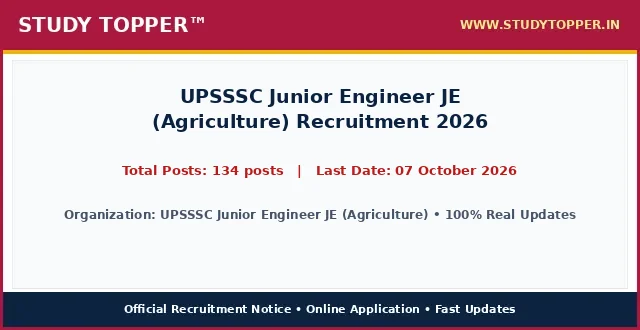
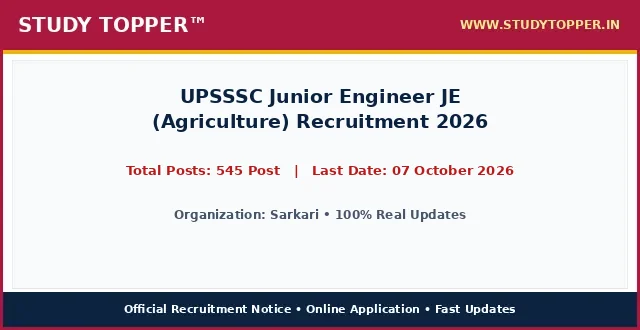
chore(lifecycle): daily auto-sort vacancies and update active dates

Changed region(s): [[0.1875, 0.4848, 0.8125, 0.5455], [0.0938, 0.6364, 0.9062, 0.6667]]

diff --git a/pages/upsssc-junior-engineer-je-agriculture-2026.html b/pages/upsssc-junior-engineer-je-agriculture-2026.html
@@ -987,12 +987,12 @@ ul.wp-block-latest-posts a:hover {
 <main class="site-main" id="main">
 <div class="gb-container gb-container-b39c368c">
 <h1 class="gb-headline gb-headline-e52a0102 gb-headline-text" style="font-size: 22px; font-weight: 700; color: #0000cd; text-align: left; margin: 8px 0 4px 0; line-height: 1.3; width: 100%; font-family: '-apple-system, BlinkMacSystemFont, 'Segoe UI', Roboto, 'Helvetica Neue', Arial, sans-serif', Times, serif, Hind, sans-serif;">UPSSSC Junior Engineer JE (Agriculture) Recruitment 2026</h1>
-<div class="gb-container gb-container-659bd175"><p style="color: #cd0808; font-weight: 700; font-size: 15px; margin: 2px 0 7px 0; text-align: left; font-family: '-apple-system, BlinkMacSystemFont, 'Segoe UI', Roboto, 'Helvetica Neue', Arial, sans-serif', Times, serif, Hind, sans-serif;">Post Date: August 21, 2026 07:48 PM</p></div>
-<p class="gb-headline gb-headline-550ae316 short_Details gb-headline-text" style="width: 100%; max-width: 100%; font-size: 16.8px; line-height: 1.55; color: #000000; text-align: justify; text-justify: inter-word; margin: 8px 0 14px 0; display: block; font-family: '-apple-system, BlinkMacSystemFont, 'Segoe UI', Roboto, 'Helvetica Neue', Arial, sans-serif', Times, serif, Hind, sans-serif;"><strong style="color: #0000cd;">UPSSSC Junior Engineer JE (Agriculture)</strong> has officially published the recruitment notice <strong style="color: #cd0808;">UPSSSC Junior Engineer JE (Agriculture) Recruitment 2026</strong> under notification number Official Advt 2026. Online applications are invited for 134 posts across multiple departments and cadre positions. Interested candidates possessing the requisite educational qualifications and falling between 18 Years to 40 Years can complete their online registration before the application deadline of 07 October 2026. Applicants should read the eligibility criteria, category reservation rules, and exam scheme thoroughly before submitting applications.</p>
+<div class="gb-container gb-container-659bd175"><p style="color: #cd0808; font-weight: 700; font-size: 15px; margin: 2px 0 7px 0; text-align: left; font-family: '-apple-system, BlinkMacSystemFont, 'Segoe UI', Roboto, 'Helvetica Neue', Arial, sans-serif', Times, serif, Hind, sans-serif;">Post Date: August 22, 2026 11:56 AM</p></div>
+<p class="gb-headline gb-headline-550ae316 short_Details gb-headline-text" style="width: 100%; max-width: 100%; font-size: 16.8px; line-height: 1.55; color: #000000; text-align: justify; text-justify: inter-word; margin: 8px 0 14px 0; display: block; font-family: '-apple-system, BlinkMacSystemFont, 'Segoe UI', Roboto, 'Helvetica Neue', Arial, sans-serif', Times, serif, Hind, sans-serif;"><strong style="color: #0000cd;">Sarkari</strong> has officially published the recruitment notice <strong style="color: #cd0808;">UPSSSC Junior Engineer JE (Agriculture) Recruitment 2026</strong> under notification number Official Advt 2026. Online applications are invited for 545 Post across multiple departments and cadre positions. Interested candidates possessing the requisite educational qualifications and falling between 18 Years to 40 Years can complete their online registration before the application deadline of 07 October 2026. Applicants should read the eligibility criteria, category reservation rules, and exam scheme thoroughly before submitting applications.</p>
 <div class="gb-container gb-container-9849916c"><div class="social-buttons-compact" style="display: flex; justify-content: flex-start; align-items: center; gap: 10px; margin: 10px 0 16px 0; width: 100%;"><a class="social-btn-compact wa" href="https://whatsapp.com/channel/0029Va9xyz" rel="noopener" style="background-color: #00d084; color: #ffffff; padding: 10px 18px; border-radius: 4px; text-decoration: none; font-weight: bold; font-size: 15.5px; display: inline-flex; align-items: center; justify-content: center; height: auto;" target="_blank">WhatsApp</a><a class="social-btn-compact tg" href="https://t.me/studytopperofficial" rel="noopener" style="background-color: #0088cc; color: #ffffff; padding: 10px 18px; border-radius: 4px; text-decoration: none; font-weight: bold; font-size: 15.5px; display: inline-flex; align-items: center; justify-content: center; height: auto;" target="_blank">Telegram</a></div></div>
 <div class="gb-container gb-container-f58e6ca1" style="border: 2px solid #5b032f; border-radius: 4px; overflow: hidden; margin: 15px 0 20px 0; background-color: #ffffff; width: 100%; box-sizing: border-box;">
 <h2 class="gb-headline gb-headline-2ca5a791 gb-headline-text" style="font-size: 16px; font-weight: 700; text-align: center; color: #ef0303; line-height: 1.3; padding: 6px 4px; margin: 0; background: #ffffff; font-family: '-apple-system, BlinkMacSystemFont, 'Segoe UI', Roboto, 'Helvetica Neue', Arial, sans-serif', Times, serif, Hind, sans-serif;">UPSSSC Junior Engineer JE (Agriculture) Recruitment 2026 &ndash; Latest Details &amp; Updates</h2>
-<h3 class="gb-headline gb-headline-7d5f86e8 gb-headline-text" style="font-size: 16px; font-weight: 600; text-align: center; color: #009703; line-height: 1.25; margin: 0; padding: 2px 4px 6px 4px; background: #ffffff; font-family: '-apple-system, BlinkMacSystemFont, 'Segoe UI', Roboto, 'Helvetica Neue', Arial, sans-serif', Times, serif, Hind, sans-serif;">UPSSSC Junior Engineer JE (Agriculture) : Details &amp; Summary</h3>
+<h3 class="gb-headline gb-headline-7d5f86e8 gb-headline-text" style="font-size: 16px; font-weight: 600; text-align: center; color: #009703; line-height: 1.25; margin: 0; padding: 2px 4px 6px 4px; background: #ffffff; font-family: '-apple-system, BlinkMacSystemFont, 'Segoe UI', Roboto, 'Helvetica Neue', Arial, sans-serif', Times, serif, Hind, sans-serif;">Sarkari : Details &amp; Summary</h3>
 <p class="gb-headline gb-headline-79adf169 gb-headline-text" style="margin: 0 0 6px 0; font-family: '-apple-system, BlinkMacSystemFont, 'Segoe UI', Roboto, 'Helvetica Neue', Arial, sans-serif', Times, serif, Hind, sans-serif; text-align: center; font-size: 18px; font-weight: 700;"><a href="/" style="color: #0000ff; text-decoration: underline;">StudyTopper.in</a></p>
 
 <style id="st-post-boxes-responsive-css">
@@ -1025,7 +1025,7 @@ ul.wp-block-latest-posts a:hover {
     <div style="background-color: #5b032f; color: #ffffff; padding: 8px 10px; font-size: 20px; font-weight: 700; text-align: center; font-family: '-apple-system, BlinkMacSystemFont, 'Segoe UI', Roboto, 'Helvetica Neue', Arial, sans-serif', Times, serif, Hind, sans-serif;">Important Dates</div>
     <div style="padding: 12px 14px; background-color: #ffffff;">
       <ul style="padding-left: 20px; margin: 0; list-style-type: disc; text-align: left; font-size: 14pt; line-height: 1.6; font-family: '-apple-system, BlinkMacSystemFont, 'Segoe UI', Roboto, 'Helvetica Neue', Arial, sans-serif', Times, serif, Hind, sans-serif;">
-        <li><span style="font-size: 14pt;">Online Apply Start Date : <strong>17 September 2026</strong></span></li><li><span style="font-size: 14pt;">Online Apply Last Date : <span style="color: #ff0000;"><strong>07 October 2026</strong></span></span></li><li><span style="font-size: 14pt;">Fee Payment Last Date : <span style="color: #ff0000;"><strong>07 October 2026</strong></span></span></li><li><span style="font-size: 14pt;">Correction Last Date : <span style="color: #ff0000;"><strong>14 October 2026</strong></span></span></li><li><span style="font-size: 14pt;">Exam Date : <strong>Notify Later</strong></span></li><li><span style="font-size: 14pt;">Admit Card Available : <strong>Before Exam</strong></span></li>
+        
       </ul>
     </div>
   </div>
@@ -1034,7 +1034,7 @@ ul.wp-block-latest-posts a:hover {
     <div style="background-color: #5b032f; color: #ffffff; padding: 8px 10px; font-size: 20px; font-weight: 700; text-align: center; font-family: '-apple-system, BlinkMacSystemFont, 'Segoe UI', Roboto, 'Helvetica Neue', Arial, sans-serif', Times, serif, Hind, sans-serif;">Application Fee</div>
     <div style="padding: 12px 14px; background-color: #ffffff;">
       <ul style="padding-left: 20px; margin: 0; list-style-type: disc; text-align: left; font-size: 14pt; line-height: 1.6; font-family: '-apple-system, BlinkMacSystemFont, 'Segoe UI', Roboto, 'Helvetica Neue', Arial, sans-serif', Times, serif, Hind, sans-serif;">
-        <li><span style="font-size: 14pt;">General, OBC, EWS : <strong>₹ 25/-</strong></span></li><li><span style="font-size: 14pt;">SC, ST : <strong>₹ 25/-</strong></span></li><li><span style="font-size: 14pt;">PH Candidates : <strong>₹ 25/-</strong></span></li><li><span style="font-size: 14pt;">Payment Mode (Online) : <strong>You can make the payment using the following methods: Debit Card Credit Card Internet Banking IMPS Cash Card / Mobile Wallet</strong></span></li><li><span style="font-size: 14pt;">Candidates must have UPSSSC PET 2025 Qualified + High School (10th) or equivalent from a recognized board + 3 : <strong>Year Diploma in Agricultural Engineering from UP Board of Technical Education or an equivalent AICTE-approved qualification.</strong></span></li>
+        <li><span style="font-size: 14pt;">Bihar Police BPSSC Sub Inspector SI Prohibition Result 2026 Advt. No. : <strong>03/2026</strong></span></li><li><span style="font-size: 14pt;">UP Scholarship Online Form 2026 : <strong>2027</strong></span></li>
       </ul>
       <div style="margin-top: 10px; font-size: 14pt; line-height: 1.5; color: #000000; border-top: 1px dashed #ccc; padding-top: 8px; font-family: '-apple-system, BlinkMacSystemFont, 'Segoe UI', Roboto, 'Helvetica Neue', Arial, sans-serif', Times, serif, Hind, sans-serif;">
         <strong>Mode of Payment / Access:</strong> Online via Net Banking, Debit Card, Credit Card, UPI or Free Candidate Portal.
@@ -1047,10 +1047,10 @@ ul.wp-block-latest-posts a:hover {
 <div class="st-grid-row" style="display: flex; flex-wrap: wrap; width: 100%; border-top: 2px solid #5b032f; margin: 0; padding: 0; box-sizing: border-box;">
   <!-- Left Col: Age Limits -->
   <div class="st-col-half st-col-border-right" style="box-sizing: border-box; vertical-align: top;">
-    <div style="background-color: #046132; color: #ffffff; padding: 8px 10px; font-size: 17px; font-weight: 700; text-align: center; font-family: '-apple-system, BlinkMacSystemFont, 'Segoe UI', Roboto, 'Helvetica Neue', Arial, sans-serif', Times, serif, Hind, sans-serif;">UPSSSC Junior Engineer JE (Agriculture) : Age Limits As On 01 August 2026</div>
+    <div style="background-color: #046132; color: #ffffff; padding: 8px 10px; font-size: 17px; font-weight: 700; text-align: center; font-family: '-apple-system, BlinkMacSystemFont, 'Segoe UI', Roboto, 'Helvetica Neue', Arial, sans-serif', Times, serif, Hind, sans-serif;">Sarkari : Age Limits As On 01 August 2026</div>
     <div style="padding: 12px 14px; background-color: #ffffff;">
       <ul style="padding-left: 20px; margin: 0; list-style-type: disc; text-align: left; font-size: 14pt; line-height: 1.6; font-family: '-apple-system, BlinkMacSystemFont, 'Segoe UI', Roboto, 'Helvetica Neue', Arial, sans-serif', Times, serif, Hind, sans-serif;">
-        <li><span style="font-size: 14pt;">For Minimum Age : <strong>18 Years</strong></span></li><li><span style="font-size: 14pt;">For Maximum Age : <strong>40 Years</strong></span></li>
+        
       </ul>
     </div>
   </div>
@@ -1058,7 +1058,7 @@ ul.wp-block-latest-posts a:hover {
   <div class="st-col-half" style="box-sizing: border-box; vertical-align: top;">
     <div style="background-color: #f53c00; color: #ffffff; padding: 8px 10px; font-size: 20px; font-weight: 700; text-align: center; font-family: '-apple-system, BlinkMacSystemFont, 'Segoe UI', Roboto, 'Helvetica Neue', Arial, sans-serif', Times, serif, Hind, sans-serif;">Total Post</div>
     <div style="padding: 24px 10px; background-color: #ffffff; text-align: center;">
-      <span style="font-size: 28px; font-weight: 800; color: #000000; font-family: '-apple-system, BlinkMacSystemFont, 'Segoe UI', Roboto, 'Helvetica Neue', Arial, sans-serif', Times, serif, Hind, sans-serif;">134 posts</span>
+      <span style="font-size: 28px; font-weight: 800; color: #000000; font-family: '-apple-system, BlinkMacSystemFont, 'Segoe UI', Roboto, 'Helvetica Neue', Arial, sans-serif', Times, serif, Hind, sans-serif;">545 Post</span>
     </div>
   </div>
 </div>
@@ -1070,19 +1070,7 @@ ul.wp-block-latest-posts a:hover {
 <div class="gb-container gb-container-ec1f6e4c">
 <h2 class="gb-headline gb-headline-c7683bda gb-headline-text" style="font-size: 24px; font-weight: 800; text-align: center; color: #ef0303; line-height: 1.35; margin: 20px 0 12px 0; padding: 6px 4px; font-family: '-apple-system, BlinkMacSystemFont, 'Segoe UI', Roboto, 'Helvetica Neue', Arial, sans-serif', Times, serif, Hind, sans-serif;">UPSSSC Junior Engineer JE (Agriculture) Recruitment 2026 : Key Overview &amp; Matrix</h2>
 <div class="gb-headline gb-headline-60ccea19 gb-headline-text">
-<table style="border-collapse: collapse; width: 100%; height: 150px;">
-<tbody>
-<tr style="height: 25px;">
-<td colspan="2" style="width: 50%; text-align: center; height: 25px;"><span style="background-color: #000080; color: #ffffff; font-size: 14pt;"><strong> UPSSSC Junior Engineer JE (Agriculture) : Category Wise Vacancy Details </strong></span></td>
-</tr>
-<tr style="height: 25px;">
-<td style="width: 50%; height: 25px; text-align: center;"><span style="font-size: 14pt;"><strong>Category / Particulars</strong></span></td>
-<td style="width: 50%; height: 25px; text-align: center;"><span style="font-size: 14pt;"><strong>Count / Status</strong></span></td>
-</tr>
-<tr><td style="text-align: center;">General</td><td style="text-align: center; font-weight: normal; color: inherit;">54</td></tr><tr><td style="text-align: center;">EWS</td><td style="text-align: center; font-weight: normal; color: inherit;">13</td></tr><tr><td style="text-align: center;">OBC</td><td style="text-align: center; font-weight: normal; color: inherit;">43</td></tr><tr><td style="text-align: center;">SC</td><td style="text-align: center; font-weight: normal; color: inherit;">23</td></tr><tr><td style="text-align: center;">ST</td><td style="text-align: center; font-weight: normal; color: inherit;">01</td></tr>
-</tbody>
-</table>
-<p>&nbsp;</p>
+
 <table style="border-collapse: collapse; width: 100%;">
 <tbody>
 <tr>
@@ -1091,12 +1079,13 @@ ul.wp-block-latest-posts a:hover {
 <th style="background-color: #f53c00; color: #ffffff; padding: 6px 10px; text-align: center; border: 1px solid #d35400; font-size: 15px; font-weight: 700; font-family: '-apple-system, BlinkMacSystemFont, 'Segoe UI', Roboto, 'Helvetica Neue', Arial, sans-serif', Times, serif, Hind, sans-serif;">Eligibility Criteria</th>
 </tr>
 <tr>
-<td style="padding: 8px; border: 1px solid #ddd; font-weight: bold;">UPSSSC Junior Engineer JE (Agriculture) Recruitment 2026</td>
-<td style="padding: 8px; border: 1px solid #ddd; text-align: center; font-weight: bold;">134 posts</td>
-<td style="padding: 8px; border: 1px solid #ddd;">Passed 10th / 12th / Diploma / Bachelor Degree in relevant discipline from any recognized Board or University in India as per official notification.</td>
+<td style="padding: 8px; border: 1px solid #ddd; font-weight: bold;">Sarkari Recruitment</td>
+<td style="padding: 8px; border: 1px solid #ddd; text-align: center; font-weight: bold;">545 Post</td>
+<td style="padding: 8px; border: 1px solid #ddd;">Please refer to the official notification linked below for detailed educational qualifications.</td>
 </tr>
 </tbody>
 </table>
+<p>&nbsp;</p>
 <p>&nbsp;</p>
 
 
@@ -1104,10 +1093,10 @@ ul.wp-block-latest-posts a:hover {
 <table style="border-collapse: collapse; width: 100%;">
 <tbody>
 <tr>
-<td style="width: 100%; text-align: center;"><span style="background-color: #000080; color: #ffffff; font-size: 14pt; font-weight: bold; display: block; padding: 6px;"> How to Fill UPSSSC Junior Engineer JE (Agriculture) Online Application Form </span></td>
+<td style="width: 100%; text-align: center;"><span style="background-color: #000080; color: #ffffff; font-size: 14pt; font-weight: bold; display: block; padding: 6px;"> How to Fill Sarkari Online Application Form </span></td>
 </tr>
 <tr>
-<td style="width: 100%;"><ol style="margin:0; padding-left:18px; text-align: left !important; list-style-position: outside !important"><li style="margin-bottom:6px; text-align: left !important;">Visit official portal for UPSSSC Junior Engineer JE (Agriculture) Recruitment 2026 via direct application link in important links section below.</li><li style="margin-bottom:6px; text-align: left !important;">Read official recruitment notification carefully to verify category eligibility criteria and age limits.</li><li style="margin-bottom:6px; text-align: left !important;">Complete online candidate registration with valid mobile number and email ID.</li><li style="margin-bottom:6px; text-align: left !important;">Fill educational qualifications, identity details, and permanent address accurately.</li><li style="margin-bottom:6px; text-align: left !important;">Upload scanned photograph and signature in required dimensions.</li><li style="margin-bottom:6px; text-align: left !important;">Resize candidate photograph and signature accurately using StudyTopper Tools resizer at indtool.in.</li><li style="margin-bottom:6px; text-align: left !important;">Pay applicable category application fee online using Debit Card, Credit Card, Net Banking, or UPI.</li><li style="margin-bottom:6px; text-align: left !important;">Review full application form preview thoroughly and submit before 07 October 2026.</li><li style="margin-bottom:6px; text-align: left !important;">Download and print submitted application confirmation page for future reference.</li></ol></td>
+<td style="width: 100%;"><ol style="margin:0; padding-left:18px; text-align: left !important; list-style-position: outside !important"><li style="margin-bottom:6px; text-align: left !important;">Read the official recruitment notification carefully before applying.</li><li style="margin-bottom:6px; text-align: left !important;">Keep all basic documents ready: ID Proof, Address Details, Basic Details.</li><li style="margin-bottom:6px; text-align: left !important;">Ready your scanned documents like Photo, Signature, ID Proof, etc.</li><li style="margin-bottom:6px; text-align: left !important;">Click on the 'Apply Online' link given in the Important Links section below.</li><li style="margin-bottom:6px; text-align: left !important;">Fill out all the columns in the application form accurately.</li><li style="margin-bottom:6px; text-align: left !important;">Pay the required application fee if applicable.</li><li style="margin-bottom:6px; text-align: left !important;">Take a printout of the final submitted application form.</li><li style="margin-bottom:6px; text-align: left !important;">Resize candidate photograph and signature accurately using the <a href="https://indtool.in" rel="noopener" target="_blank"><strong>StudyTopper Tools</strong></a> image resizer at indtool.in.</li></ol></td>
 </tr>
 </tbody>
 </table>
@@ -1115,12 +1104,12 @@ ul.wp-block-latest-posts a:hover {
 <table style="border-collapse: collapse; width: 100%;">
 <tbody>
 <tr>
-<td style="width: 100%; text-align: center;"><span style="background-color: #000080; color: #ffffff; font-size: 14pt;"><strong><span style="color: #ffffff;"> UPSSSC Junior Engineer JE (Agriculture) Recruitment 2026 : Mode Of Selection </span></strong></span></td>
+<td style="width: 100%; text-align: center;"><span style="background-color: #000080; color: #ffffff; font-size: 14pt;"><strong><span style="color: #ffffff;"> Sarkari Recruitment 2026 : Mode Of Selection </span></strong></span></td>
 </tr>
 <tr>
 <td style="width: 100%;">
 <ul class="wp-block-list" style="text-align: left !important; list-style-position: outside !important">
-<li style="text-align: left !important;"><span style="font-size: 14pt;"><strong>Computer Based Examination (CBE) / Evaluation</strong></span></li><li style="text-align: left !important;"><span style="font-size: 14pt;"><strong>Document Verification</strong></span></li><li style="text-align: left !important;"><span style="font-size: 14pt;"><strong>Final Merit Allotment</strong></span></li>
+<li style="text-align: left !important;"><span style="font-size: 14pt;"><strong>Computer Based Examination (CBE) / Written Exam</strong></span></li><li style="text-align: left !important;"><span style="font-size: 14pt;"><strong>Document Verification</strong></span></li><li style="text-align: left !important;"><span style="font-size: 14pt;"><strong>Medical Examination</strong></span></li>
 </ul>
 </td>
 </tr>
@@ -1158,7 +1147,7 @@ ul.wp-block-latest-posts a:hover {
 <span style="font-size: 19px; font-weight: 800; color: #000000; font-family: '-apple-system, BlinkMacSystemFont, 'Segoe UI', Roboto, 'Helvetica Neue', Arial, sans-serif', Times, serif, Hind, sans-serif;">Apply Online Link</span>
 </td>
 <td style="width: 50%; padding: 14px 16px; text-align: center;">
-<span style="font-size: 20px; font-weight: 800; font-family: '-apple-system, BlinkMacSystemFont, 'Segoe UI', Roboto, 'Helvetica Neue', Arial, sans-serif', Times, serif, Hind, sans-serif;"><a href="https://whatsapp.com/channel/0029VaAbQf01NCrYADMLt00L" aria-label="Click Here for Apply Online Link - UPSSSC Junior Engineer JE (Agriculture) Recruitment 2026" rel="noopener noreferrer" style="color: #0000ef; font-weight: 800; text-decoration: none;" target="_blank">Click Here</a></span>
+<span style="font-size: 20px; font-weight: 800; font-family: '-apple-system, BlinkMacSystemFont, 'Segoe UI', Roboto, 'Helvetica Neue', Arial, sans-serif', Times, serif, Hind, sans-serif;"><a href="https://www.sarkariresult.com/2026/mpesb-group2-subgroup-4-aug26/" aria-label="Click Here for Apply Online Link - UPSSSC Junior Engineer JE (Agriculture) Recruitment 2026" rel="noopener noreferrer" style="color: #0000ef; font-weight: 800; text-decoration: none;" target="_blank">Click Here</a></span>
 </td>
 </tr>
 <tr style="border-bottom: 1px solid #000000; background-color: #fff37a;">
@@ -1166,23 +1155,31 @@ ul.wp-block-latest-posts a:hover {
 <span style="font-size: 19px; font-weight: 800; color: #000000; font-family: '-apple-system, BlinkMacSystemFont, 'Segoe UI', Roboto, 'Helvetica Neue', Arial, sans-serif', Times, serif, Hind, sans-serif;">Check Official Notification</span>
 </td>
 <td style="width: 50%; padding: 14px 16px; text-align: center;">
-<span style="font-size: 20px; font-weight: 800; font-family: '-apple-system, BlinkMacSystemFont, 'Segoe UI', Roboto, 'Helvetica Neue', Arial, sans-serif', Times, serif, Hind, sans-serif;"><a href="https://upsssc.gov.in/ViewPdf.aspx?HnWf3AX1TPcbZWvpTaJvREO3S7UAQjKO5DMOPRjzZ3I=" aria-label="Click Here for Check Official Notification - UPSSSC Junior Engineer JE (Agriculture) Recruitment 2026" rel="noopener noreferrer" style="color: #0000ef; font-weight: 800; text-decoration: none;" target="_blank">Click Here</a></span>
+<span style="font-size: 20px; font-weight: 800; font-family: '-apple-system, BlinkMacSystemFont, 'Segoe UI', Roboto, 'Helvetica Neue', Arial, sans-serif', Times, serif, Hind, sans-serif;"><a href="" aria-label="Click Here for Check Official Notification - UPSSSC Junior Engineer JE (Agriculture) Recruitment 2026" rel="noopener noreferrer" style="color: #0000ef; font-weight: 800; text-decoration: none;" target="_blank">Click Here</a></span>
 </td>
 </tr>
 <tr style="border-bottom: 1px solid #000000; background-color: #fff37a;">
 <td style="width: 50%; padding: 14px 16px; border-right: 1px solid #000000; text-align: center;">
-<span style="font-size: 19px; font-weight: 800; color: #000000; font-family: '-apple-system, BlinkMacSystemFont, 'Segoe UI', Roboto, 'Helvetica Neue', Arial, sans-serif', Times, serif, Hind, sans-serif;">UPSSSC Official Website</span>
+<span style="font-size: 19px; font-weight: 800; color: #000000; font-family: '-apple-system, BlinkMacSystemFont, 'Segoe UI', Roboto, 'Helvetica Neue', Arial, sans-serif', Times, serif, Hind, sans-serif;">Photo / Sign Resizer Tool</span>
 </td>
 <td style="width: 50%; padding: 14px 16px; text-align: center;">
-<span style="font-size: 20px; font-weight: 800; font-family: '-apple-system, BlinkMacSystemFont, 'Segoe UI', Roboto, 'Helvetica Neue', Arial, sans-serif', Times, serif, Hind, sans-serif;"><a href="http://upsssc.gov.in/Default.aspx" aria-label="Click Here for UPSSSC Official Website - UPSSSC Junior Engineer JE (Agriculture) Recruitment 2026" rel="noopener noreferrer" style="color: #0000ef; font-weight: 800; text-decoration: none;" target="_blank">Click Here</a></span>
+<span style="font-size: 20px; font-weight: 800; font-family: '-apple-system, BlinkMacSystemFont, 'Segoe UI', Roboto, 'Helvetica Neue', Arial, sans-serif', Times, serif, Hind, sans-serif;"><a href="https://indtool.in" aria-label="Click Here for Photo / Sign Resizer Tool - UPSSSC Junior Engineer JE (Agriculture) Recruitment 2026" rel="noopener noreferrer" style="color: #0000ef; font-weight: 800; text-decoration: none;" target="_blank">Click Here</a></span>
 </td>
 </tr>
-<tr style=" background-color: #fff37a;">
+<tr style="border-bottom: 1px solid #000000; background-color: #fff37a;">
 <td style="width: 50%; padding: 14px 16px; border-right: 1px solid #000000; text-align: center;">
 <span style="font-size: 19px; font-weight: 800; color: #000000; font-family: '-apple-system, BlinkMacSystemFont, 'Segoe UI', Roboto, 'Helvetica Neue', Arial, sans-serif', Times, serif, Hind, sans-serif;">Check Sarkari Result</span>
 </td>
 <td style="width: 50%; padding: 14px 16px; text-align: center;">
 <span style="font-size: 20px; font-weight: 800; font-family: '-apple-system, BlinkMacSystemFont, 'Segoe UI', Roboto, 'Helvetica Neue', Arial, sans-serif', Times, serif, Hind, sans-serif;"><a href="/" aria-label="Click Here for Check Sarkari Result - UPSSSC Junior Engineer JE (Agriculture) Recruitment 2026" rel="noopener noreferrer" style="color: #0000ef; font-weight: 800; text-decoration: none;" >Click Here</a></span>
+</td>
+</tr>
+<tr style=" background-color: #fff37a;">
+<td style="width: 50%; padding: 14px 16px; border-right: 1px solid #000000; text-align: center;">
+<span style="font-size: 19px; font-weight: 800; color: #000000; font-family: '-apple-system, BlinkMacSystemFont, 'Segoe UI', Roboto, 'Helvetica Neue', Arial, sans-serif', Times, serif, Hind, sans-serif;">Sarkari Website</span>
+</td>
+<td style="width: 50%; padding: 14px 16px; text-align: center;">
+<span style="font-size: 20px; font-weight: 800; font-family: '-apple-system, BlinkMacSystemFont, 'Segoe UI', Roboto, 'Helvetica Neue', Arial, sans-serif', Times, serif, Hind, sans-serif;"><a href="" aria-label="Click Here for Sarkari Website - UPSSSC Junior Engineer JE (Agriculture) Recruitment 2026" rel="noopener noreferrer" style="color: #0000ef; font-weight: 800; text-decoration: none;" target="_blank">Click Here</a></span>
 </td>
 </tr>
 </tbody>
@@ -1198,7 +1195,7 @@ ul.wp-block-latest-posts a:hover {
 <p style="margin: 0 0 16px 0; color: #333333; line-height: 1.6;">Ans. The last date for online submission of application is 07 October 2026.</p><p style="margin: 0 0 4px 0;"><strong style="color: #000080;">Q2. What is the age limit for UPSSSC Junior Engineer JE (Agriculture) Recruitment 2026?</strong></p>
 <p style="margin: 0 0 16px 0; color: #333333; line-height: 1.6;">Ans. Candidate age should generally be between 18 Years and 40 Years as on 01 August 2026. Age relaxation is applicable per rules.</p><p style="margin: 0 0 4px 0;"><strong style="color: #000080;">Q3. What is the application fee for UPSSSC Junior Engineer JE (Agriculture) Recruitment 2026?</strong></p>
 <p style="margin: 0 0 16px 0; color: #333333; line-height: 1.6;">Ans. Application fee varies by category (e.g., General/OBC: Rs. 100/-, SC/ST/PwD: Exempted).</p><p style="margin: 0 0 4px 0;"><strong style="color: #000080;">Q4. How many total posts are available in UPSSSC Junior Engineer JE (Agriculture) Recruitment 2026?</strong></p>
-<p style="margin: 0 0 16px 0; color: #333333; line-height: 1.6;">Ans. A total of 134 posts have been officially announced for this recruitment drive.</p><p style="margin: 0 0 4px 0;"><strong style="color: #000080;">Q5. How can I apply online for UPSSSC Junior Engineer JE (Agriculture) Recruitment 2026?</strong></p>
+<p style="margin: 0 0 16px 0; color: #333333; line-height: 1.6;">Ans. A total of 545 Post have been officially announced for this recruitment drive.</p><p style="margin: 0 0 4px 0;"><strong style="color: #000080;">Q5. How can I apply online for UPSSSC Junior Engineer JE (Agriculture) Recruitment 2026?</strong></p>
 <p style="margin: 0 0 0 0; color: #333333; line-height: 1.6;">Ans. Eligible candidates can click the 'Apply Online' link in the Important Links table, register, fill details, resize photo/signature via indtool.in, and submit before 07 October 2026.</p>
   </div>
 </div>
